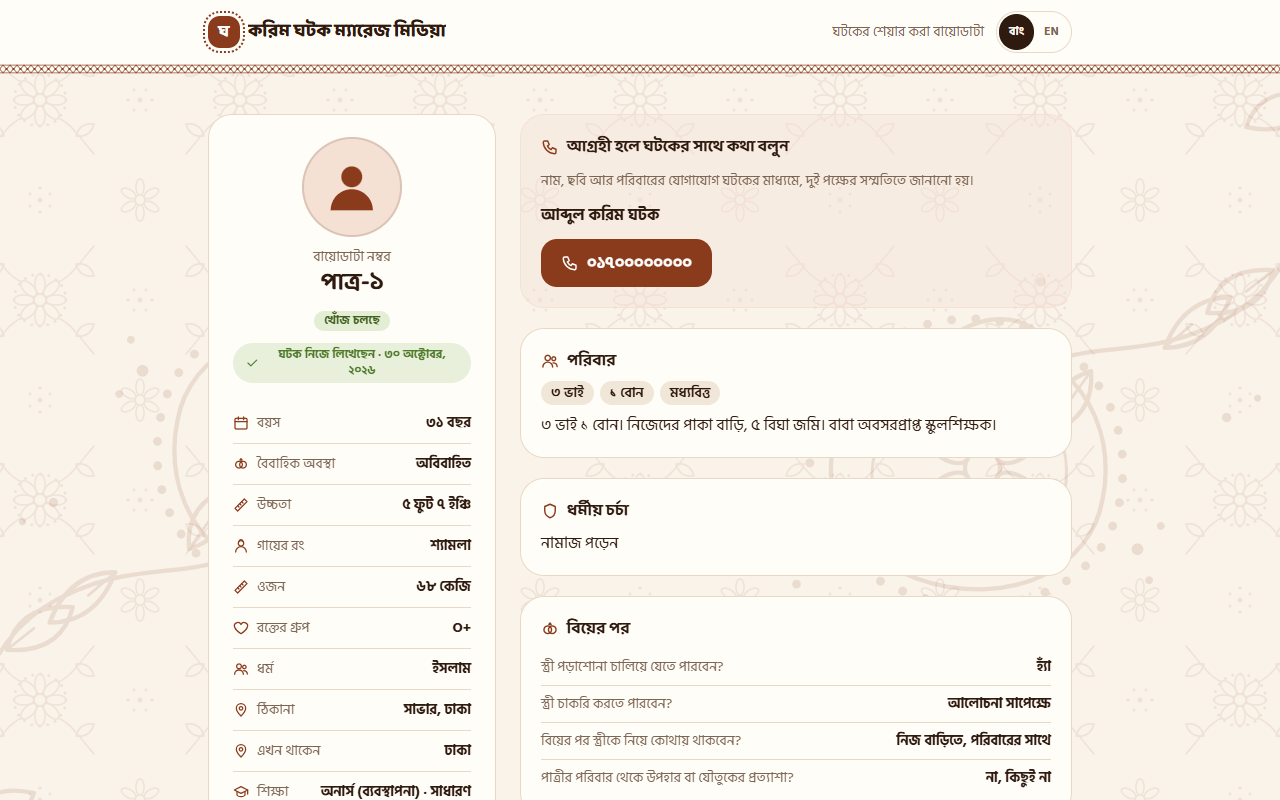
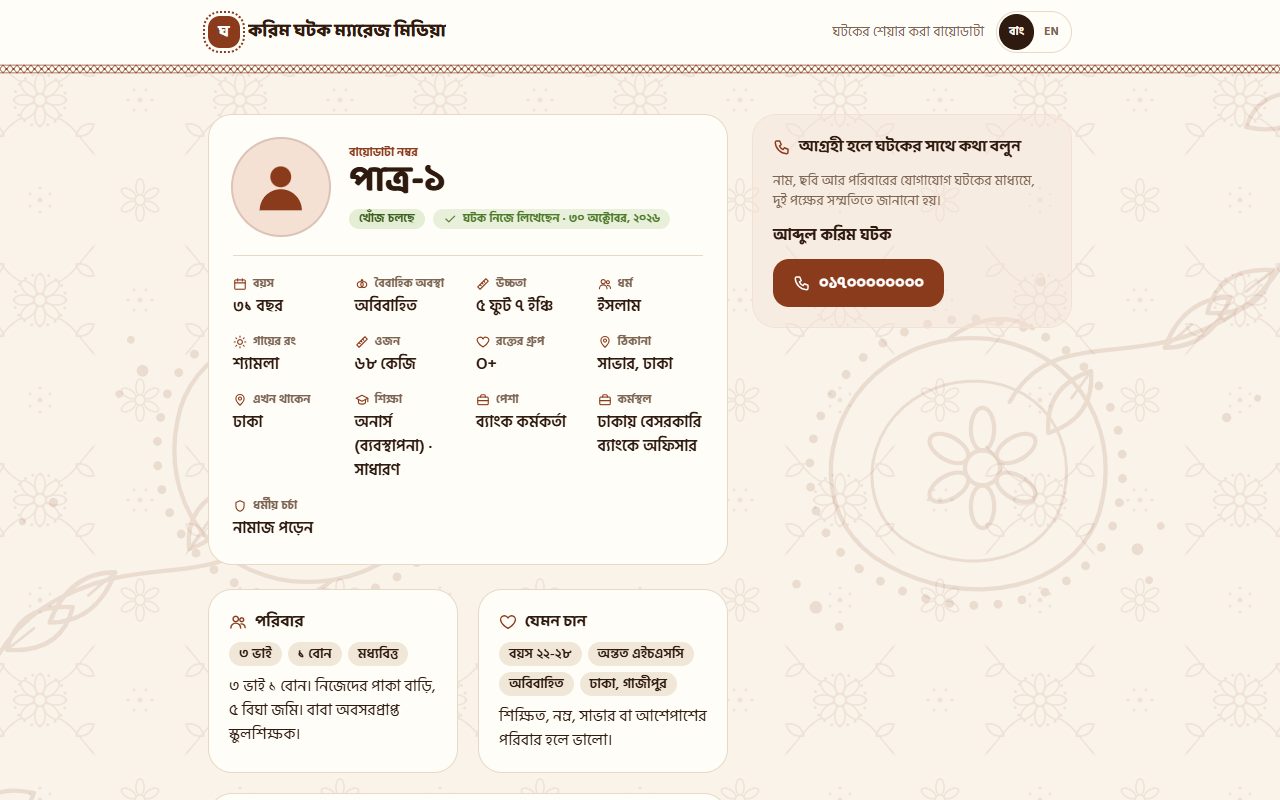
style: the family's biodata view reads at a glance
One summary card first: the number, the status, the ghotok's check and
every fact in a grid across the width instead of a narrow list; then the
family's own words in two columns (family, the match hoped for) with the
"after marriage" answers below. The call-the-ghotok card sits under the
summary on a phone and stays in view down the right on a wide screen.
Screenshots refreshed.

diff --git a/components/biodata.tsx b/components/biodata.tsx
@@ -81,57 +81,64 @@ export function BiodataFormAside({ site, t }: { site: PublicSite | null; t: T })
 }
 
 /**
- * A biodata as a family sees it: a card with the number, the ghotok's check and the facts asked first, then the
- * family, religious practice, the "after marriage" answers and the match hoped for, then whatever the page puts
- * beside it (how to reach the ghotok). Used by the public link and the signed-in view.
+ * A biodata as a family sees it. First a summary card: the number, the status, the ghotok's check, and every fact
+ * in a grid that reads at a glance. Then the family's own words: family, the match hoped for, the "after marriage"
+ * answers. Whatever the page passes as `aside` (how to reach the ghotok) sits right under the summary on a phone and
+ * stays in view down the right on a wide screen. Used by the public link and the signed-in view.
  */
 export function FamilyBiodata({ b, t, aside }: { b: FamilyView; t: T; aside?: ReactNode }) {
-  const facts: [IconName, string, string][] = [
-    ["calendar", t.t("facts.age"), t.years(ageFromYear(b.birthYear))],
-    ["rings", t.t("facts.marital"), t.t(`marital.${b.maritalStatus}`)],
-    ["ruler", t.t("facts.height"), b.heightCm ? t.height(b.heightCm) : ""],
-    ["bride", t.t("facts.complexion"), b.complexion ? t.t(`complexion.${b.complexion}`) : ""],
-    ["ruler", t.t("facts.weight"), b.weightKg ? t.t("facts.kg", { n: b.weightKg }) : ""],
-    ["heart", t.t("facts.blood"), b.bloodGroup ?? ""],
-    ["people", t.t("facts.religion"), t.t(`religion.${b.religion}`)],
-    ["location", t.t("facts.address"), [b.upazila, b.district].filter(Boolean).join(", ")],
-    ["location", t.t("facts.presentAddress"), b.presentAddress ?? ""],
-    ["school", t.t("facts.education"), [b.education, b.educationMedium ? t.t(`medium.${b.educationMedium}`) : null].filter(Boolean).join(" · ")],
-    ["briefcase", t.t("facts.profession"), b.profession ?? ""],
-    ["briefcase", t.t("facts.workplace"), b.workplace ?? ""],
+  const facts: { icon: IconName; label: string; value: string; wide?: boolean }[] = [
+    { icon: "calendar", label: t.t("facts.age"), value: t.years(ageFromYear(b.birthYear)) },
+    { icon: "rings", label: t.t("facts.marital"), value: t.t(`marital.${b.maritalStatus}`) },
+    { icon: "ruler", label: t.t("facts.height"), value: b.heightCm ? t.height(b.heightCm) : "" },
+    { icon: "people", label: t.t("facts.religion"), value: t.t(`religion.${b.religion}`) },
+    { icon: "sun", label: t.t("facts.complexion"), value: b.complexion ? t.t(`complexion.${b.complexion}`) : "" },
+    { icon: "ruler", label: t.t("facts.weight"), value: b.weightKg ? t.t("facts.kg", { n: b.weightKg }) : "" },
+    { icon: "heart", label: t.t("facts.blood"), value: b.bloodGroup ?? "" },
+    { icon: "location", label: t.t("facts.address"), value: [b.upazila, b.district].filter(Boolean).join(", ") },
+    { icon: "location", label: t.t("facts.presentAddress"), value: b.presentAddress ?? "" },
+    { icon: "school", label: t.t("facts.education"), value: [b.education, b.educationMedium ? t.t(`medium.${b.educationMedium}`) : null].filter(Boolean).join(" · ") },
+    { icon: "briefcase", label: t.t("facts.profession"), value: b.profession ?? "" },
+    { icon: "briefcase", label: t.t("facts.workplace"), value: b.workplace ?? "" },
+    { icon: "shield", label: t.t("facts.religiousPractice"), value: b.religiousPractice ?? "", wide: true },
   ];
   const family = familyTags(b, t);
   const after = afterMarriageRows(b, t);
   const wants = expectationTags(b, t);
   return (
-    <div className="flex flex-col gap-5 lg:grid lg:grid-cols-[18rem_1fr] lg:items-start lg:gap-6">
-      <section className="flex flex-col items-center gap-3 rounded-3xl border border-line bg-surface p-6 text-center">
-        <Avatar kind={b.kind} className="size-24" />
-        <div>
-          <p className="text-sm text-muted">{t.t("bv.number")}</p>
-          <h1 className="font-display text-2xl font-bold">{t.biodataNo(b.kind, b.code)}</h1>
+    <div className="flex flex-col gap-5 lg:grid lg:grid-cols-[minmax(0,1fr)_20rem] lg:grid-rows-[auto_1fr] lg:items-start lg:gap-6">
+      <section className="flex flex-col gap-5 rounded-3xl border border-line bg-surface p-5 lg:col-start-1 lg:row-start-1 lg:p-6">
+        <div className="flex items-center gap-4 lg:gap-5">
+          <Avatar kind={b.kind} className="size-20 lg:size-24" />
+          <div className="min-w-0 flex-1">
+            <p className="text-xs font-bold text-primary">{t.t("bv.number")}</p>
+            <p className="font-display text-3xl font-extrabold lg:text-4xl">{t.biodataNo(b.kind, b.code)}</p>
+            <div className="mt-2 flex flex-wrap items-center gap-2">
+              <ProfileBadge status={b.status} />
+              <span className="inline-flex items-center gap-1.5 rounded-full bg-pos-soft px-2.5 py-0.5 text-xs font-bold text-pos"><Icon name="check" size={14} />{trustLine(b, t)}</span>
+            </div>
+          </div>
         </div>
-        <ProfileBadge status={b.status} />
-        <p className="inline-flex items-center gap-1.5 rounded-full bg-pos-soft px-3 py-1 text-xs font-bold text-pos"><Icon name="check" size={14} />{trustLine(b, t)}</p>
-        <dl className="mt-2 flex w-full flex-col divide-y divide-line text-sm">
-          {facts.filter(([, , value]) => value).map(([icon, label, value]) => (
-            <div key={label} className="flex items-center gap-3 py-2.5">
-              <dt className="flex flex-1 items-center gap-2 text-muted"><Icon name={icon} size={16} className="text-primary" />{label}</dt>
-              <dd className="text-right font-bold">{value}</dd>
+        <dl className="grid grid-cols-2 gap-x-4 gap-y-4 border-t border-line pt-5 sm:grid-cols-3 lg:grid-cols-4">
+          {facts.filter((f) => f.value).map(({ icon, label, value, wide }) => (
+            <div key={label} className={`min-w-0 ${wide ? "col-span-2 sm:col-span-3 lg:col-span-4" : ""}`}>
+              <dt className="flex items-center gap-1.5 text-xs font-bold text-muted"><Icon name={icon} size={14} className="text-primary" />{label}</dt>
+              <dd className="mt-0.5 font-semibold wrap-break-word">{value}</dd>
             </div>
           ))}
         </dl>
       </section>
 
-      <div className="flex flex-col gap-5">
-        {aside}
+      {aside ? <div className="flex flex-col gap-4 lg:sticky lg:top-24 lg:col-start-2 lg:row-start-1 lg:row-span-2">{aside}</div> : null}
+
+      <div className="grid gap-5 sm:grid-cols-2 lg:col-start-1 lg:row-start-2">
         {family.length || b.familyDetails ? <Block icon="people" title={t.t("facts.family")} tags={family} text={b.familyDetails} /> : null}
-        {b.religiousPractice ? <Block icon="shield" title={t.t("facts.religiousPractice")} text={b.religiousPractice} /> : null}
+        {wants.length || b.expectations ? <Block icon="heart" title={t.t("facts.expectations")} tags={wants} text={b.expectations} /> : null}
         {after.length ? (
-          <Block icon="rings" title={t.t("facts.after")}>
-            <dl className="flex flex-col divide-y divide-line text-sm">
+          <Block icon="rings" title={t.t("facts.after")} className="sm:col-span-2">
+            <dl className="grid gap-x-8 sm:grid-cols-2">
               {after.map(([q, a]) => (
-                <div key={q} className="flex items-start justify-between gap-4 py-2">
+                <div key={q} className="flex items-start justify-between gap-4 border-t border-line py-2.5 text-sm">
                   <dt className="text-muted">{q}</dt>
                   <dd className="shrink-0 text-right font-bold">{a}</dd>
                 </div>
@@ -139,7 +146,6 @@ export function FamilyBiodata({ b, t, aside }: { b: FamilyView; t: T; aside?: Re
             </dl>
           </Block>
         ) : null}
-        {wants.length || b.expectations ? <Block icon="heart" title={t.t("facts.expectations")} tags={wants} text={b.expectations} /> : null}
       </div>
     </div>
   );
@@ -167,9 +173,9 @@ export function FamilyBiodataCard({ b, t }: { b: FamilyView & { id: string }; t:
 }
 
 /** One titled card: a row of chips, a paragraph, or anything else, in that order. */
-function Block({ icon, title, tags = [], text, children }: { icon: IconName; title: string; tags?: string[]; text?: string | null; children?: ReactNode }) {
+function Block({ icon, title, tags = [], text, children, className = "" }: { icon: IconName; title: string; tags?: string[]; text?: string | null; children?: ReactNode; className?: string }) {
   return (
-    <section className="flex flex-col gap-2 rounded-3xl border border-line bg-surface p-5">
+    <section className={`flex flex-col gap-2 rounded-3xl border border-line bg-surface p-5 ${className}`}>
       <h2 className="flex items-center gap-2 font-display text-base font-bold"><Icon name={icon} size={18} className="text-primary" />{title}</h2>
       {tags.length ? (
         <p className="flex flex-wrap gap-1.5">
